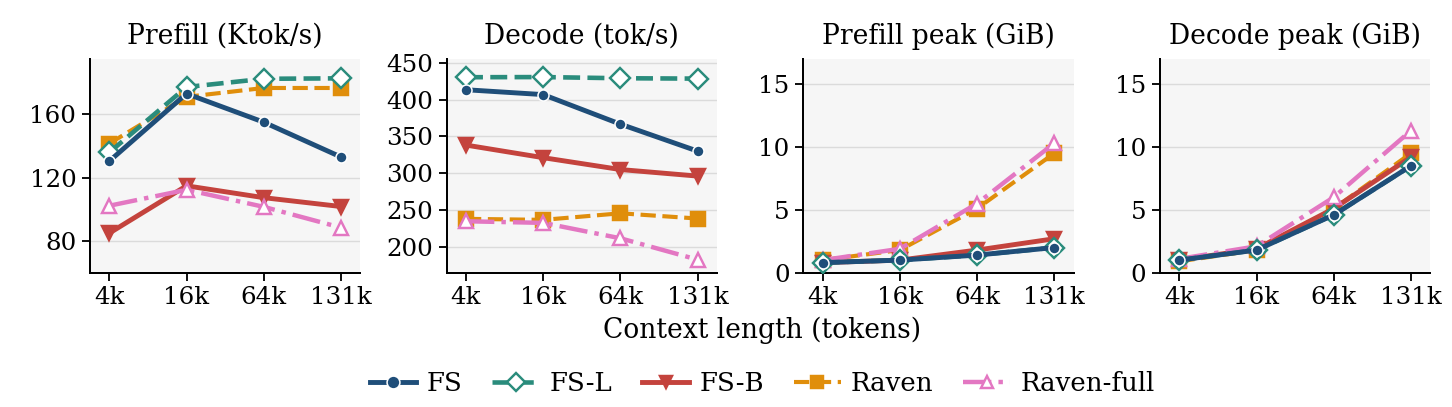
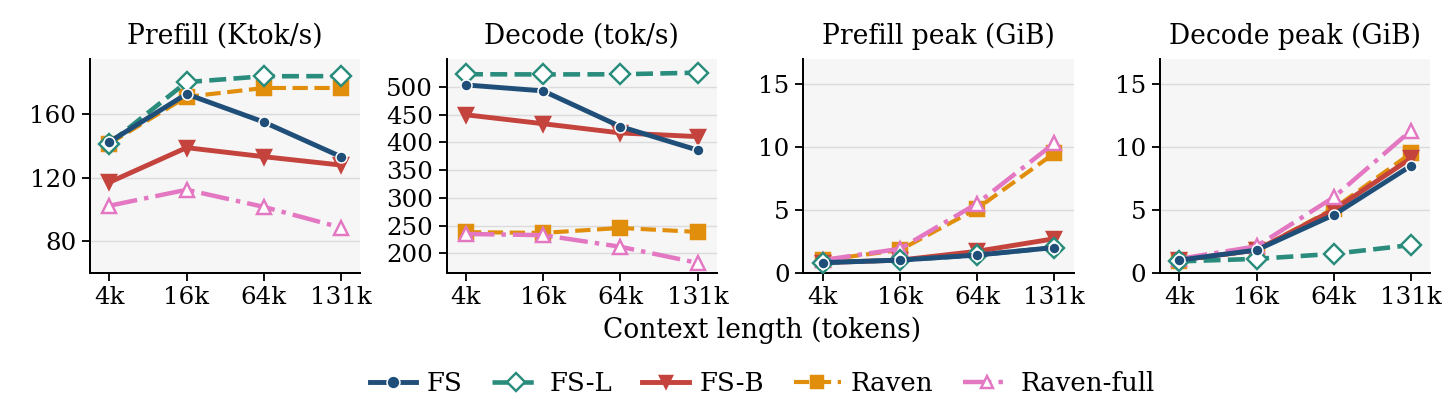
Update the README efficiency table and figure to the fused-kernel numbers from main

diff --git a/README.md b/README.md
@@ -51,16 +51,16 @@ Both variants retrieve single needles at 262k — 64x the training length — wi
 
 | Model | Prefill, Ktok/s (4k/16k/64k/131k) | Decode, tok/s (4k/16k/64k/131k) | Prefill peak, GiB (4k/16k/64k/131k) | Decode peak, GiB (4k/16k/64k/131k) |
 | --- | --- | --- | --- | --- |
-| TF++ (full attention) | 159.3 / 119.8 / 48.4 / 26.2 | 264.5 / 199.8 / 95.8 / 55.5 | 1.6 / 3.6 / 11.8 / 22.8 | 1.5 / 3.6 / 11.8 / 22.8 |
+| TF++ | 159.3 / 119.8 / 48.4 / 26.2 | 264.5 / 199.8 / 95.8 / 55.5 | 1.6 / 3.6 / 11.8 / 22.8 | 1.5 / 3.6 / 11.8 / 22.8 |
 | MoBA | 84.0 / 84.0 / 40.0 / 22.3 | 261.4 / 196.1 / 95.4 / 55.4 | 1.6 / 3.6 / 11.9 / 23.1 | 1.5 / 3.6 / 11.8 / 23.5 |
 | NSA | 129.2 / 136.8 / 104.6 / 76.1 | 153.8 / 149.2 / 143.1 / 139.7 | 1.0 / 2.0 / 5.8 / 11.0 | 1.0 / 1.9 / 5.8 / 11.0 |
 | GDN | 145.6 / 170.7 / 174.5 / 174.1 | 349.9 / 368.3 / 357.8 / 339.0 | 1.1 / 1.9 / 5.3 / 9.7 | 1.1 / 1.9 / 5.2 / 9.6 |
 | NAtS-L | 60.1* / 154.0* / 154.0* / 134.9* | 267.8 / 233.7 / 172.3 / 118.2 | 1.2* / 2.6* / 8.2* / 15.6* | 1.4 / 3.1 / 9.9 / 19.0 |
-| Raven (recurrent) | 141.6 / 171.1 / 176.7 / 176.7 | 238.1 / 236.7 / 245.6 / 238.5 | 1.0 / 1.8 / 5.1 / 9.5 | 0.9 / 1.8 / 5.1 / 9.5 |
+| Raven | 141.6 / 171.1 / 176.7 / 176.7 | 238.1 / 236.7 / 245.6 / 238.5 | 1.0 / 1.8 / 5.1 / 9.5 | 0.9 / 1.8 / 5.1 / 9.5 |
 | Raven-full | 102.3 / 112.4 / 101.6 / 88.5 | 234.8 / 232.6 / 211.7 / 182.7 | 1.0 / 1.9 / 5.5 / 10.3 | 1.1 / 2.1 / 6.0 / 11.3 |
-| **FS** | 130.5 / 173.1 / 155.1 / 133.1 | 413.3 / 406.7 / 366.6 / 330.0 | 0.8 / 1.0 / 1.4 / 2.0 | 1.0 / 1.8 / 4.6 / 8.5 |
-| **FS-L** (masked) | 136.0 / 177.3 / 182.5 / 182.8 | 430.3 / 430.5 / 428.9 / 428.4 | 0.8 / 1.0 / 1.4 / 2.0 | 1.0 / 1.8 / 4.6 / 8.5 |
-| **FS-B** | 85.0 / 114.9 / 107.4 / 101.8 | 338.2 / 321.1 / 305.0 / 296.1 | 0.8 / 1.0 / 1.8 / 2.7 | 1.0 / 1.9 / 5.1 / 9.2 |
+| **FS** | 142.6 / 172.9 / 155.2 / 133.3 | 503.3 / 492.5 / 428.3 / 385.9 | 0.8 / 1.0 / 1.4 / 2.0 | 1.0 / 1.8 / 4.6 / 8.5 |
+| **FS-L** | 141.6 / 180.4 / 184.1 / 184.2 | 522.6 / 522.2 / 522.5 / 525.4 | 0.8 / 1.0 / 1.4 / 2.0 | 0.9 / 1.1 / 1.5 / 2.2 |
+| **FS-B** | 117.1 / 139.0 / 133.3 / 128.0 | 449.5 / 433.4 / 416.8 / 410.2 | 0.8 / 1.0 / 1.7 / 2.7 | 1.0 / 1.8 / 5.0 / 9.1 |
 
 ## Models
 
@@ -104,9 +104,9 @@ CUDA_VISIBLE_DEVICES=0 freesolo-benchmark --model zekun-shi/FreeSolo-B-341M \
 The command downloads the checkpoint (and portable thresholds for FS-B), then invokes the
 paper's benchmark with bf16, batch 1, one warm-up, three measured repetitions,
 256 decode steps, and no memory cap. It prints eager and CUDA-graph measurements;
-compare the graph columns with **155.1/133.1 Ktok/s prefill** and **366.6/330.0 tok/s decode** for `FreeSolo-341M`, **182.5/182.8 Ktok/s prefill** and
-**428.9/428.4 tok/s decode** for `FreeSolo-L-341M`, or **107.4/101.8 Ktok/s prefill** and
-**305.0/296.1 tok/s decode** for `FreeSolo-B-341M` at 64k/131k. GPU clocks, host load, and software versions
+compare the graph columns with **155.2/133.3 Ktok/s prefill** and **428.3/385.9 tok/s decode** for `FreeSolo-341M`, **184.1/184.2 Ktok/s prefill** and
+**522.5/525.4 tok/s decode** for `FreeSolo-L-341M`, or **133.3/128.0 Ktok/s prefill** and
+**416.8/410.2 tok/s decode** for `FreeSolo-B-341M` at 64k/131k. GPU clocks, host load, and software versions
 affect timing. The JSON includes graph/eager logit checks and kernel fallback status.
 The reference stack uses PyTorch 2.5.1+cu121 and Triton 3.1.0.
 
